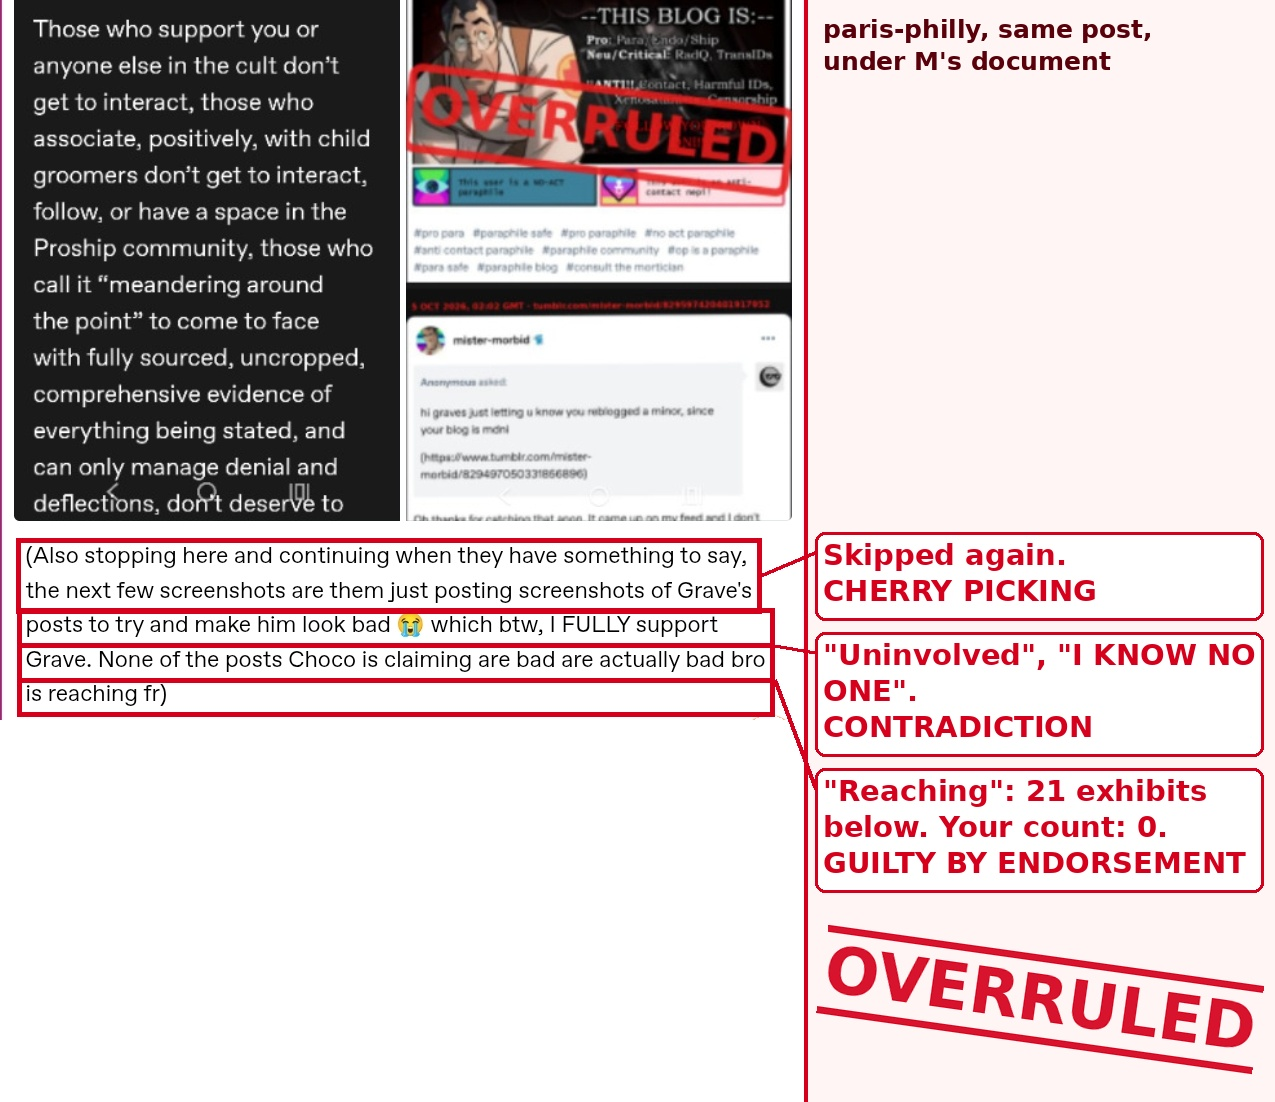
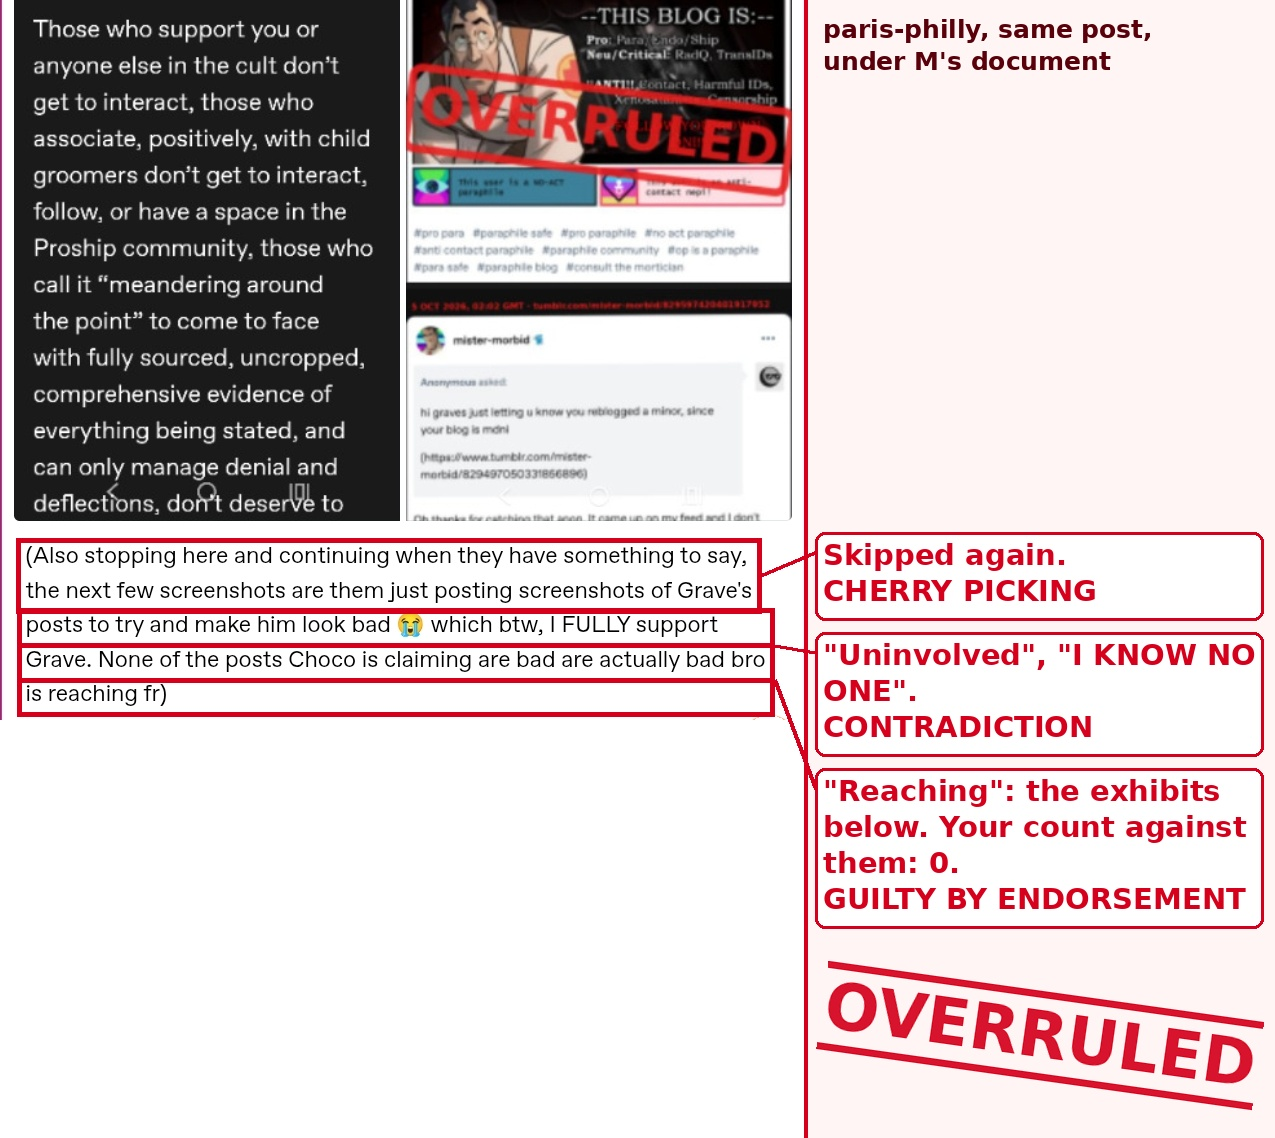
paris-philly: OVERRULED: la hoja de cargos GUILTY en blanco y negro, las pruebas contra Grave juntas en gris (las del post de GraveKKKandy y las del documento de M) y el bloque del 'defense document': el documento es exposición y el juicio es de M
Claude-Session: https://claude.ai/code/session_011savmqKtxKrSGSdgEW8RFN

Changed region(s): [[0.0, 0.0, 1.0, 0.9873], [0.6424, 0.0, 0.8871, 0.0617]]

diff --git a/choco-overruled-paris-7nov/index.html b/choco-overruled-paris-7nov/index.html
@@ -1,5 +1,5 @@
 <!doctype html><html lang="en"><head><meta charset="utf-8"><meta name="viewport" content="width=device-width,initial-scale=1"><title>Choco, &quot;paris-philly: OVERRULED.&quot; (7 nov, 1 post nuevo, con sus tags)</title>
-<style>body{margin:0;background:#1a120b;color:#ffd9b0;font:18px/1.4 system-ui,sans-serif;padding:16px 12px 60px}h1{color:#ff9a3c;font-size:1.45rem;margin:0 0 8px}p.l{color:#f3c99a;margin:0 0 16px}details{background:#2a1a0e;border:1px solid #5a3a1e;border-radius:14px;margin:0 0 10px;overflow:hidden}summary{padding:16px;font-weight:700;color:#ffb066;cursor:pointer;display:flex;align-items:center;gap:10px;list-style:none}summary::-webkit-details-marker{display:none}summary::before{content:"▸";color:#ff9a3c}details[open] summary::before{content:"▾"}.c{margin-left:auto;background:#5a3a1e;border-radius:999px;padding:2px 10px;font-size:.85rem;color:#ffd9b0}.row{margin:0 12px 10px}button{font:inherit;border:0;border-radius:12px;padding:13px;cursor:pointer;width:100%;text-align:left;background:#3a2412;color:#ffd9b0;display:flex;align-items:center;gap:12px}button:active{background:#ff9a3c;color:#1a120b}.n{flex:0 0 34px;height:34px;border-radius:999px;background:#ff9a3c;color:#1a120b;font-weight:800;display:flex;align-items:center;justify-content:center;font-size:.9rem}.t{font-weight:700;font-size:.95rem}.h{font-size:.8rem;color:#e7b98a;margin-left:auto;text-align:right}.st{display:block;color:#9be59b;font-size:.85rem;min-height:1em;margin:3px 0 0 46px}#tags{background:#5a3a1e;justify-content:center;margin-bottom:14px}</style></head><body><h1>Choco, &quot;paris-philly: OVERRULED.&quot; (7 nov, 1 post nuevo, con sus tags)</h1><p class="l">M&#x27;s verdict on paris-philly (7 November): each of their sentences quoted and answered, nine of their posts captured with the fallacies, contradictions and truth inversions marked in red, the twenty-one exhibits against Grave, the link to M&#x27;s document, findings and verdict, GUILTY. One post, thirty images, with its tags.</p><button type="button" id="tg">Copy tags</button><p class="st" id="tst"></p><button type="button" class="go" data-i="0"><span class="n">1</span><span class="t">Choco, 7 nov · paris-philly: OVERRULED. New, uninvolved, indifferent. Three claims, all three refuted…</span><span class="h">30 img</span></button><p class="st" id="s0"></p><script>const P=["<h1>paris-philly: OVERRULED.<\/h1><p>New, uninvolved, indifferent. Three claims, all three refuted by your own blog, in your own words.<\/p><p>\"I learned about this shit TODAY.\"<br/>\"I DON'T KNOW YOU. I FOUND THE DOC YOU MADE TODAY. I'm not affiliated with anyone you know. I KNOW NO ONE AND UNTIL VERY RECENTLY, KNEW NOTHING.\"<\/p><p class=\"npf_quote\">Same day: \"I FULLY support Grave.\" \"Hi Morphine! I think I remember seeing you in the doc.\" \"If you support Choco at all, please do not interact with us.\" Uninvolved for one sentence, on a side for every post after it. Contradiction.<\/p><p><img src=\"MEDIA/paris_overruled_6.jpg\"/><\/p><p>\"we have since spent the last several hours reading the document\"<br/>\"I said I didn't read all of it.\"<br/>\"I haven't Fully read the doc yet (and honestly probably won't. I've seen enough lmao)\"<br/>\"(Stopping here and continuing when the post actually has something to say...)\"<\/p><p class=\"npf_quote\">Hours of reading, then not all of it, then not fully and never will, then skipped on purpose. Four versions of one afternoon, and a verdict on the whole: \"It contradicts itself dozens of times.\" Contradictions quoted: zero. You judged what you admit you never read. Cherry picking.<\/p><p><img src=\"MEDIA/paris_overruled_2.jpg\"/><\/p><p>\"the amount of times in that doc that Choco took shit out of context to twist someone's words is crazy, only for the provided screenshots to show me that it really wasn't anything like the quotes made it seem.\"<\/p><p class=\"npf_quote\">You confirm the document puts the source next to every quote. Examples given by you: zero. The reader has the source, you have an adjective. OVERRULED.<\/p><p><img src=\"MEDIA/paris_overruled_8.jpg\"/><\/p><p>\"please stop throwing around baseless accusations (like you accuse me of doing)\"<br/>\"they'll have 0 proof lmao\"<\/p><p class=\"npf_quote\">Your proof, supplied by you: \"being the freaky little MAP that I am.\" \"I Know Grave is a pedophile. So am I??\" \"can't accuse me of being a pedophile if I am one &lt;3\". Baseless by your word, confirmed by your word. Truth inversion. OVERRULED.<\/p><p><img src=\"MEDIA/paris_overruled_1.jpg\"/><\/p><p>\"I don't back up my claims against you because I don't NEED to. Other people have done it for me\"<br/>\"I'm much more inclined to trust them over you.\"<\/p><p class=\"npf_quote\">The burden of proof sits on whoever makes the claim, attack or defense. You handed it to people you won't name and counted heads in place of sources. Your evidence on record: 0 captures, 0 links, 0 quotes. Shifted burden of proof. Bandwagon. OVERRULED.<\/p><p><img src=\"MEDIA/paris_overruled_5.jpg\"/><\/p><p>\"my former username is morphine-dr1p. My account got deleted by choco bc I doxxed him [...] That is the only thing I am guilty of.\"<br/>\"Thank you for owning up to your mistake [...] thank you for the rest of the ask :3\"<\/p><p class=\"npf_quote\">An account confesses to doxxing and you thank it. Then you thank it for the rest: claims with no capture attached. A confessed doxxer is your character witness. Guilty by endorsement.<\/p><p><img src=\"MEDIA/paris_overruled_9.jpg\"/><\/p><p>\"I. Do. NOT. Care about you.\"<br/>\"simply just because I DON'T. CARE.\"<br/>\"Hope you have a miserable life.\"<br/>\"YOU WANNA TALK? DO IT WHERE THE COURT OF PUBLIC OPINION CAN SEE YOU, COWARD\"<br/>\"Leave me alooone\"<\/p><p class=\"npf_quote\">Post after post, a \"FINAL post\" with a read-more of screenshots, an ask queue answered on the subject, and a request for people to send you more. Indifference, in volume. You asked for the court of public opinion, and here it is. Contradiction. Ad hominem.<\/p><p><img src=\"MEDIA/paris_overruled_4.jpg\"/><\/p><p><img src=\"MEDIA/paris_overruled_7.jpg\"/><\/p><p>\"I FULLY support Grave. None of the posts Choco is claiming are bad are actually bad bro is reaching fr\"<\/p><p class=\"npf_quote\">Reaching. Twenty-one exhibits, below. Your count against them: 0. You skipped the pages, called them reaching, and signed \"I FULLY support Grave\" under them. Guilty by endorsement.<\/p><p><img src=\"MEDIA/paris_overruled_3.jpg\"/><\/p><p><img src=\"MEDIA/grave_exhibit_1.jpg\"/><\/p><p><img src=\"MEDIA/grave_exhibit_2.jpg\"/><\/p><p><img src=\"MEDIA/grave_exhibit_3.jpg\"/><\/p><p><img src=\"MEDIA/grave_exhibit_4.jpg\"/><\/p><p><img src=\"MEDIA/grave_exhibit_5.jpg\"/><\/p><p><img src=\"MEDIA/grave_exhibit_6.jpg\"/><\/p><p><img src=\"MEDIA/grave_exhibit_7.jpg\"/><\/p><p><img src=\"MEDIA/grave_exhibit_8.jpg\"/><\/p><p><img src=\"MEDIA/grave_exhibit_9.png\"/><\/p><p><img src=\"MEDIA/grave_exhibit_10.jpg\"/><\/p><p><img src=\"MEDIA/grave_exhibit_11.jpg\"/><\/p><p><img src=\"MEDIA/grave_exhibit_12.jpg\"/><\/p><p><img src=\"MEDIA/grave_exhibit_13.jpg\"/><\/p><p><img src=\"MEDIA/grave_exhibit_14.jpg\"/><\/p><p><img src=\"MEDIA/grave_exhibit_15.jpg\"/><\/p><p><img src=\"MEDIA/grave_exhibit_16.jpg\"/><\/p><p><img src=\"MEDIA/grave_exhibit_17.jpg\"/><\/p><p><img src=\"MEDIA/grave_exhibit_18.jpg\"/><\/p><p><img src=\"MEDIA/grave_exhibit_19.jpg\"/><\/p><p><img src=\"MEDIA/grave_exhibit_20.jpg\"/><\/p><p><img src=\"MEDIA/grave_exhibit_21.jpg\"/><\/p><p><a href=\"https://docs.google.com/document/d/1QVxdKVDTm9uPe2M_GNgpGw20PpNXY6uI/edit?usp=drivesdk&amp;ouid=104612574794356562613&amp;rtpof=true&amp;sd=true\">M’s Ruling on Nier’s Document.docx<\/a><\/p><h2>FINDINGS<\/h2><p>New: irrelevant. Uninvolved: false, by your own posts. Indifferent: false, by the number of them.<br/>Your evidence: 0. Exhibits against Grave: 21 here, the rest in the document.<br/>Fallacies: appeal to ridicule, cherry picking, shifted burden of proof, bandwagon, poisoning the well, ad hominem, truth inversion.<\/p><h1>VERDICT: GUILTY.<\/h1><p>On every count. The record stays, in your own words.<\/p><p>M<\/p>"];
+<style>body{margin:0;background:#1a120b;color:#ffd9b0;font:18px/1.4 system-ui,sans-serif;padding:16px 12px 60px}h1{color:#ff9a3c;font-size:1.45rem;margin:0 0 8px}p.l{color:#f3c99a;margin:0 0 16px}details{background:#2a1a0e;border:1px solid #5a3a1e;border-radius:14px;margin:0 0 10px;overflow:hidden}summary{padding:16px;font-weight:700;color:#ffb066;cursor:pointer;display:flex;align-items:center;gap:10px;list-style:none}summary::-webkit-details-marker{display:none}summary::before{content:"▸";color:#ff9a3c}details[open] summary::before{content:"▾"}.c{margin-left:auto;background:#5a3a1e;border-radius:999px;padding:2px 10px;font-size:.85rem;color:#ffd9b0}.row{margin:0 12px 10px}button{font:inherit;border:0;border-radius:12px;padding:13px;cursor:pointer;width:100%;text-align:left;background:#3a2412;color:#ffd9b0;display:flex;align-items:center;gap:12px}button:active{background:#ff9a3c;color:#1a120b}.n{flex:0 0 34px;height:34px;border-radius:999px;background:#ff9a3c;color:#1a120b;font-weight:800;display:flex;align-items:center;justify-content:center;font-size:.9rem}.t{font-weight:700;font-size:.95rem}.h{font-size:.8rem;color:#e7b98a;margin-left:auto;text-align:right}.st{display:block;color:#9be59b;font-size:.85rem;min-height:1em;margin:3px 0 0 46px}#tags{background:#5a3a1e;justify-content:center;margin-bottom:14px}</style></head><body><h1>Choco, &quot;paris-philly: OVERRULED.&quot; (7 nov, 1 post nuevo, con sus tags)</h1><p class="l">M&#x27;s verdict on paris-philly (7 November): each of their sentences quoted and answered, nine of their posts captured with the fallacies, contradictions and truth inversions marked in red, the exhibits against Grave (those of the GraveKKKandy post and those of M&#x27;s document, put together on gray), the link to M&#x27;s document, and the charge sheet with the verdict, GUILTY. One post, 22 images, with its tags.</p><button type="button" id="tg">Copy tags</button><p class="st" id="tst"></p><button type="button" class="go" data-i="0"><span class="n">1</span><span class="t">Choco, 7 nov · paris-philly: OVERRULED. New, uninvolved, indifferent. Three claims, all three refuted…</span><span class="h">22 img</span></button><p class="st" id="s0"></p><script>const P=["<h1>paris-philly: OVERRULED.<\/h1><p>New, uninvolved, indifferent. Three claims, all three refuted by your own blog, in your own words.<\/p><p>\"I learned about this shit TODAY.\"<br/>\"I DON'T KNOW YOU. I FOUND THE DOC YOU MADE TODAY. I'm not affiliated with anyone you know. I KNOW NO ONE AND UNTIL VERY RECENTLY, KNEW NOTHING.\"<\/p><p class=\"npf_quote\">Same day: \"I FULLY support Grave.\" \"Hi Morphine! I think I remember seeing you in the doc.\" \"If you support Choco at all, please do not interact with us.\" Uninvolved for one sentence, on a side for every post after it. Contradiction.<\/p><p><img src=\"MEDIA/paris_overruled_6.jpg\"/><\/p><p>\"Choco, if you see this, you (or whoever this \"M\" person is) made a defense document SO bad, that two people who had NO IDEA who you were came out the other side SUPPORTING THE PEOPLE THE DOC WAS ABOUT.\"<\/p><p class=\"npf_quote\">You call it a defense document. The document is an exposure: every line sourced, every capture uncropped, every one of you named. M wrote it as the judge, and the judging stays with M. The story you sell, a crowd gathering as if it had a say, is a headcount of the accused citing each other. Headcounts decide nothing here. OVERRULED.<\/p><p>\"we have since spent the last several hours reading the document\"<br/>\"I said I didn't read all of it.\"<br/>\"I haven't Fully read the doc yet (and honestly probably won't. I've seen enough lmao)\"<br/>\"(Stopping here and continuing when the post actually has something to say...)\"<\/p><p class=\"npf_quote\">Hours of reading, then not all of it, then not fully and never will, then skipped on purpose. Four versions of one afternoon, and a verdict on the whole: \"It contradicts itself dozens of times.\" Contradictions quoted: zero. You judged what you admit you never read. Cherry picking.<\/p><p><img src=\"MEDIA/paris_overruled_2.jpg\"/><\/p><p>\"the amount of times in that doc that Choco took shit out of context to twist someone's words is crazy, only for the provided screenshots to show me that it really wasn't anything like the quotes made it seem.\"<\/p><p class=\"npf_quote\">You confirm the document puts the source next to every quote. Examples given by you: zero. The reader has the source, you have an adjective. OVERRULED.<\/p><p><img src=\"MEDIA/paris_overruled_8.jpg\"/><\/p><p>\"please stop throwing around baseless accusations (like you accuse me of doing)\"<br/>\"they'll have 0 proof lmao\"<\/p><p class=\"npf_quote\">Your proof, supplied by you: \"being the freaky little MAP that I am.\" \"I Know Grave is a pedophile. So am I??\" \"can't accuse me of being a pedophile if I am one &lt;3\". Baseless by your word, confirmed by your word. Truth inversion. OVERRULED.<\/p><p><img src=\"MEDIA/paris_overruled_1.jpg\"/><\/p><p>\"I don't back up my claims against you because I don't NEED to. Other people have done it for me\"<br/>\"I'm much more inclined to trust them over you.\"<\/p><p class=\"npf_quote\">The burden of proof sits on whoever makes the claim, attack or defense. You handed it to people you won't name and counted heads in place of sources. Your evidence on record: 0 captures, 0 links, 0 quotes. Shifted burden of proof. Bandwagon. OVERRULED.<\/p><p><img src=\"MEDIA/paris_overruled_5.jpg\"/><\/p><p>\"my former username is morphine-dr1p. My account got deleted by choco bc I doxxed him [...] That is the only thing I am guilty of.\"<br/>\"Thank you for owning up to your mistake [...] thank you for the rest of the ask :3\"<\/p><p class=\"npf_quote\">An account confesses to doxxing and you thank it. Then you thank it for the rest: claims with no capture attached. A confessed doxxer is your character witness. Guilty by endorsement.<\/p><p><img src=\"MEDIA/paris_overruled_9.jpg\"/><\/p><p>\"I. Do. NOT. Care about you.\"<br/>\"simply just because I DON'T. CARE.\"<br/>\"Hope you have a miserable life.\"<br/>\"YOU WANNA TALK? DO IT WHERE THE COURT OF PUBLIC OPINION CAN SEE YOU, COWARD\"<br/>\"Leave me alooone\"<\/p><p class=\"npf_quote\">Post after post, a \"FINAL post\" with a read-more of screenshots, an ask queue answered on the subject, and a request for people to send you more. Indifference, in volume. You asked for the court of public opinion, and here it is. Contradiction. Ad hominem.<\/p><p><img src=\"MEDIA/paris_overruled_4.jpg\"/><\/p><p><img src=\"MEDIA/paris_overruled_7.jpg\"/><\/p><p>\"I FULLY support Grave. None of the posts Choco is claiming are bad are actually bad bro is reaching fr\"<\/p><p class=\"npf_quote\">Reaching. The exhibits, below, and the ones from M's document after them. Your count against them: 0. You skipped the pages, called them reaching, and signed \"I FULLY support Grave\" under them. Guilty by endorsement.<\/p><p><img src=\"MEDIA/paris_overruled_3.jpg\"/><\/p><p><img src=\"MEDIA/grave_ex_1.jpg\"/><\/p><p><img src=\"MEDIA/grave_ex_2.jpg\"/><\/p><p><img src=\"MEDIA/grave_ex_3.jpg\"/><\/p><p><img src=\"MEDIA/grave_ex_4.jpg\"/><\/p><p><img src=\"MEDIA/grave_ex_5.jpg\"/><\/p><p><img src=\"MEDIA/grave_ex_6.jpg\"/><\/p><p><img src=\"MEDIA/grave_ex_7.jpg\"/><\/p><p><img src=\"MEDIA/grave_ex_8.jpg\"/><\/p><p><img src=\"MEDIA/grave_doc_1.jpg\"/><\/p><p><img src=\"MEDIA/grave_doc_2.jpg\"/><\/p><p><img src=\"MEDIA/grave_doc_3.jpg\"/><\/p><p><img src=\"MEDIA/grave_doc_4.jpg\"/><\/p><p><a href=\"https://docs.google.com/document/d/1QVxdKVDTm9uPe2M_GNgpGw20PpNXY6uI/edit?usp=drivesdk&amp;ouid=104612574794356562613&amp;rtpof=true&amp;sd=true\">M’s Ruling on Nier’s Document.docx<\/a><\/p><p><img src=\"MEDIA/paris_charge_sheet.jpg\"/><\/p><h1>VERDICT: GUILTY.<\/h1><p>On every count. The record stays, in your own words.<\/p><p>M<\/p>"];
 const TAGS="Choco speaks, Infinite-proship-choco, choco situation, paris-philly, morphine-dr1p, Xo-gravekandy, Gravekandy situation, OVERRULED, proship, profic, op is a proshipper, proshippers please interact, proshipper safe, proshippers are welcome, pro fiction, profiction";const O=new URL('media/',location.href).href;
 let LKW={};fetch(new URL('../links.json?'+Date.now(),location.href)).then(r=>r.json()).then(j=>{LKW=j.t||{};}).catch(()=>{});
 const RL=h=>h.replace(/href="([^"]*)"/g,(s,u)=>{const m=u.match(/^https?:\/\/(?:www\.tumblr\.com\/[\w-]+|[\w-]+\.tumblr\.com\/post)\/(\d{15,})/);const w=m&&LKW[m[1]]&&LKW[m[1]].wb;return w?'href="'+w+'"':s;});
